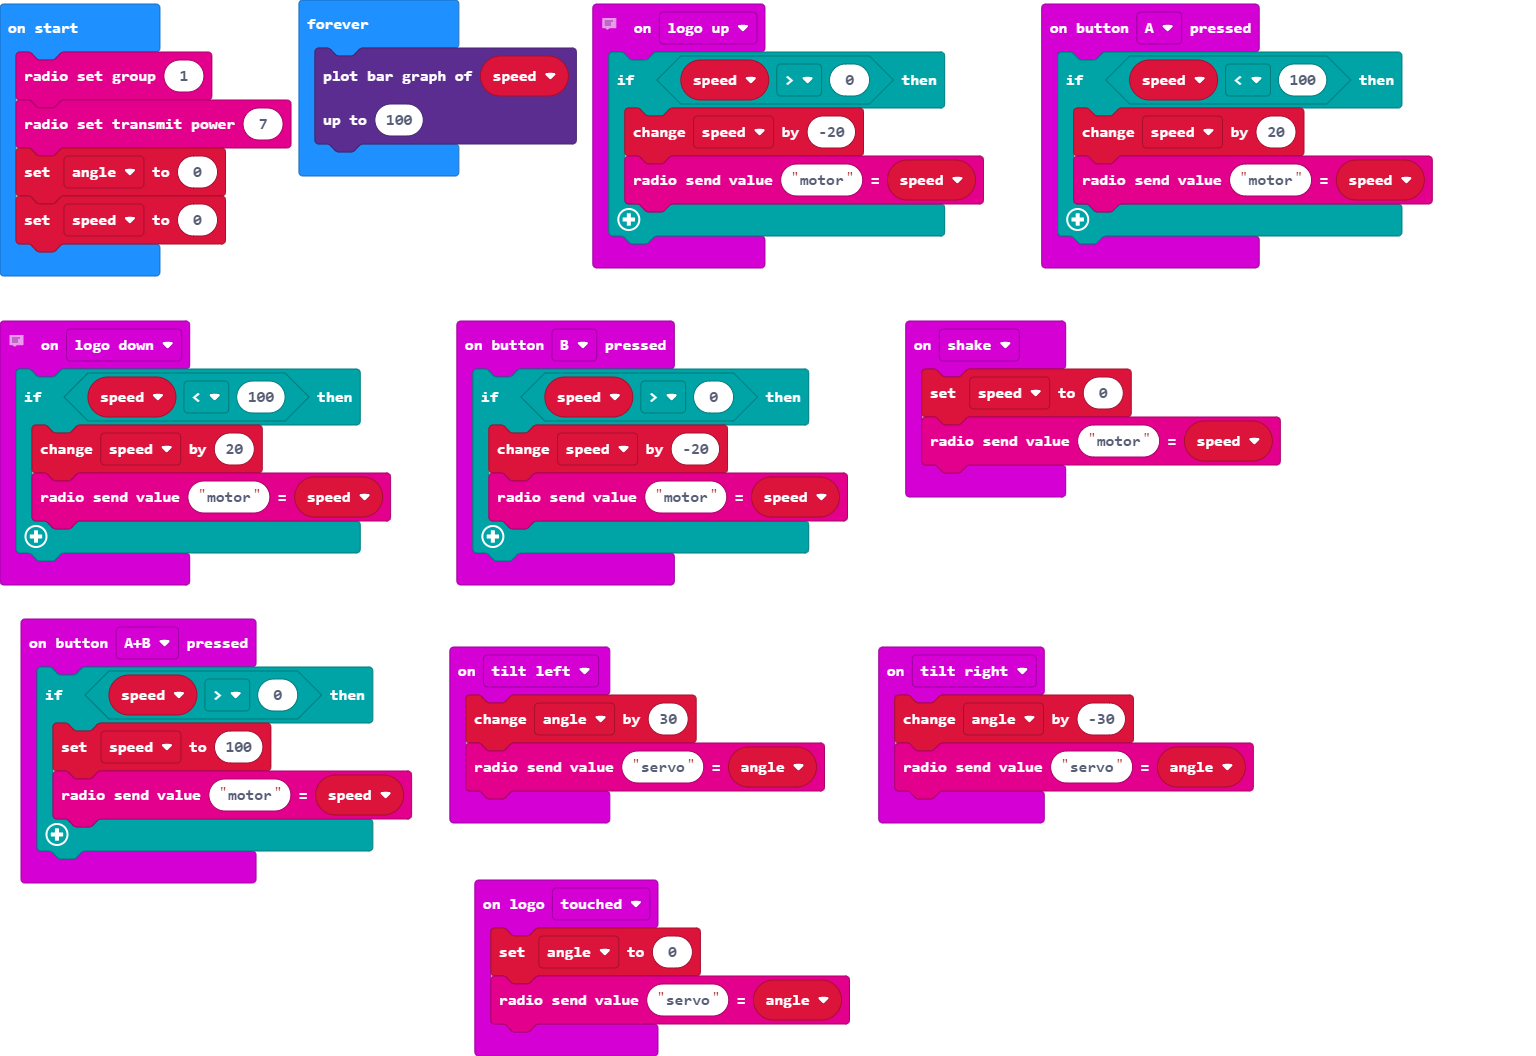
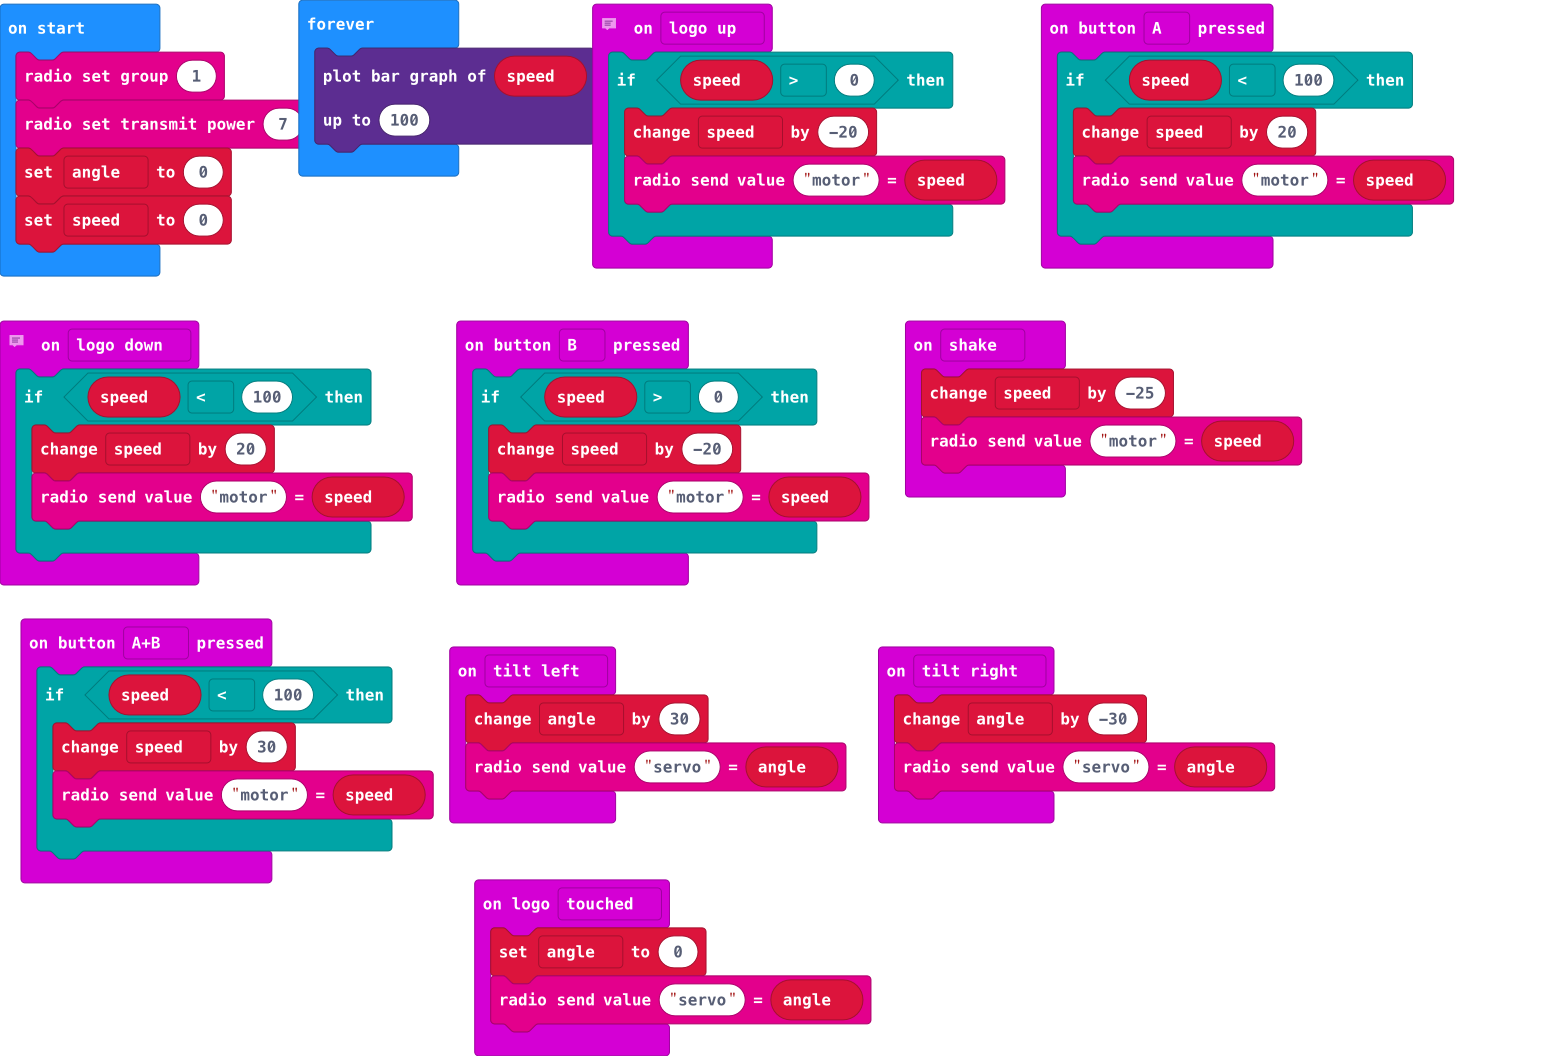
Update main.blocks, main.ts

diff --git a/main.ts b/main.ts
@@ -16,8 +16,8 @@ input.onGesture(Gesture.TiltLeft, function () {
     radio.sendValue("servo", angle)
 })
 input.onButtonPressed(Button.AB, function () {
-    if (speed > 0) {
-        speed = 100
+    if (speed < 100) {
+        speed += 30
         radio.sendValue("motor", speed)
     }
 })
@@ -28,7 +28,7 @@ input.onButtonPressed(Button.B, function () {
     }
 })
 input.onGesture(Gesture.Shake, function () {
-    speed = 0
+    speed += -25
     radio.sendValue("motor", speed)
 })
 input.onGesture(Gesture.TiltRight, function () {
